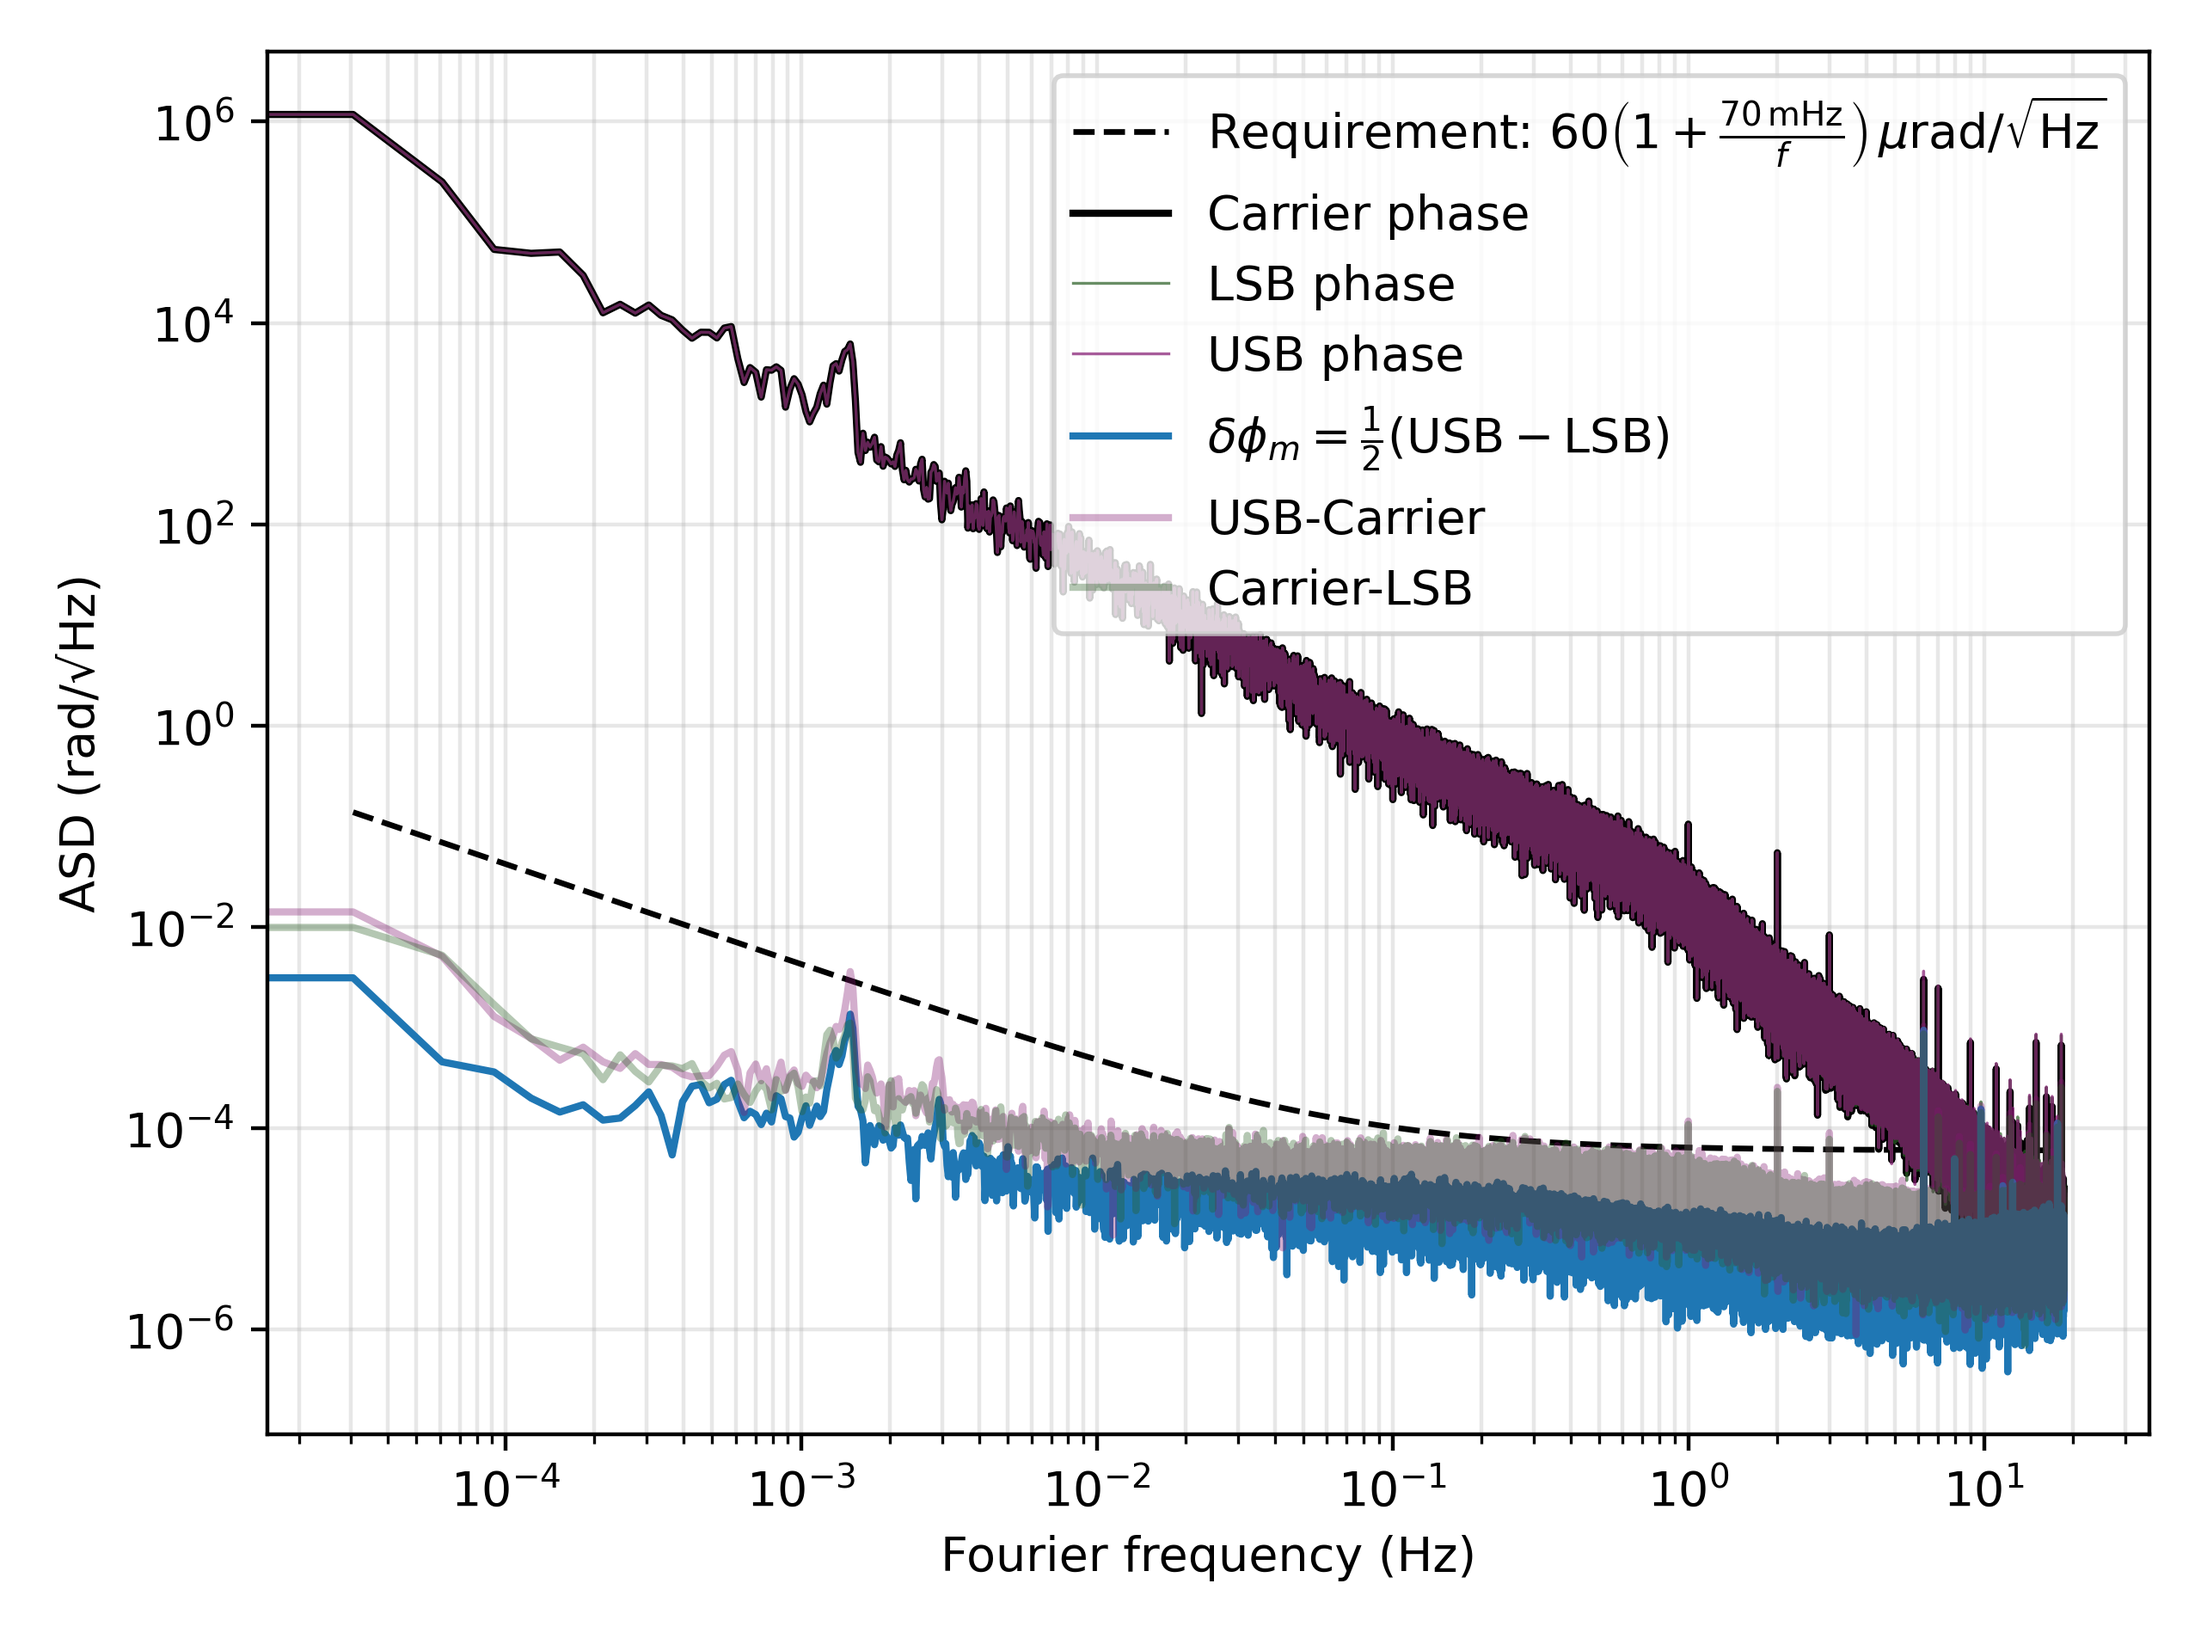
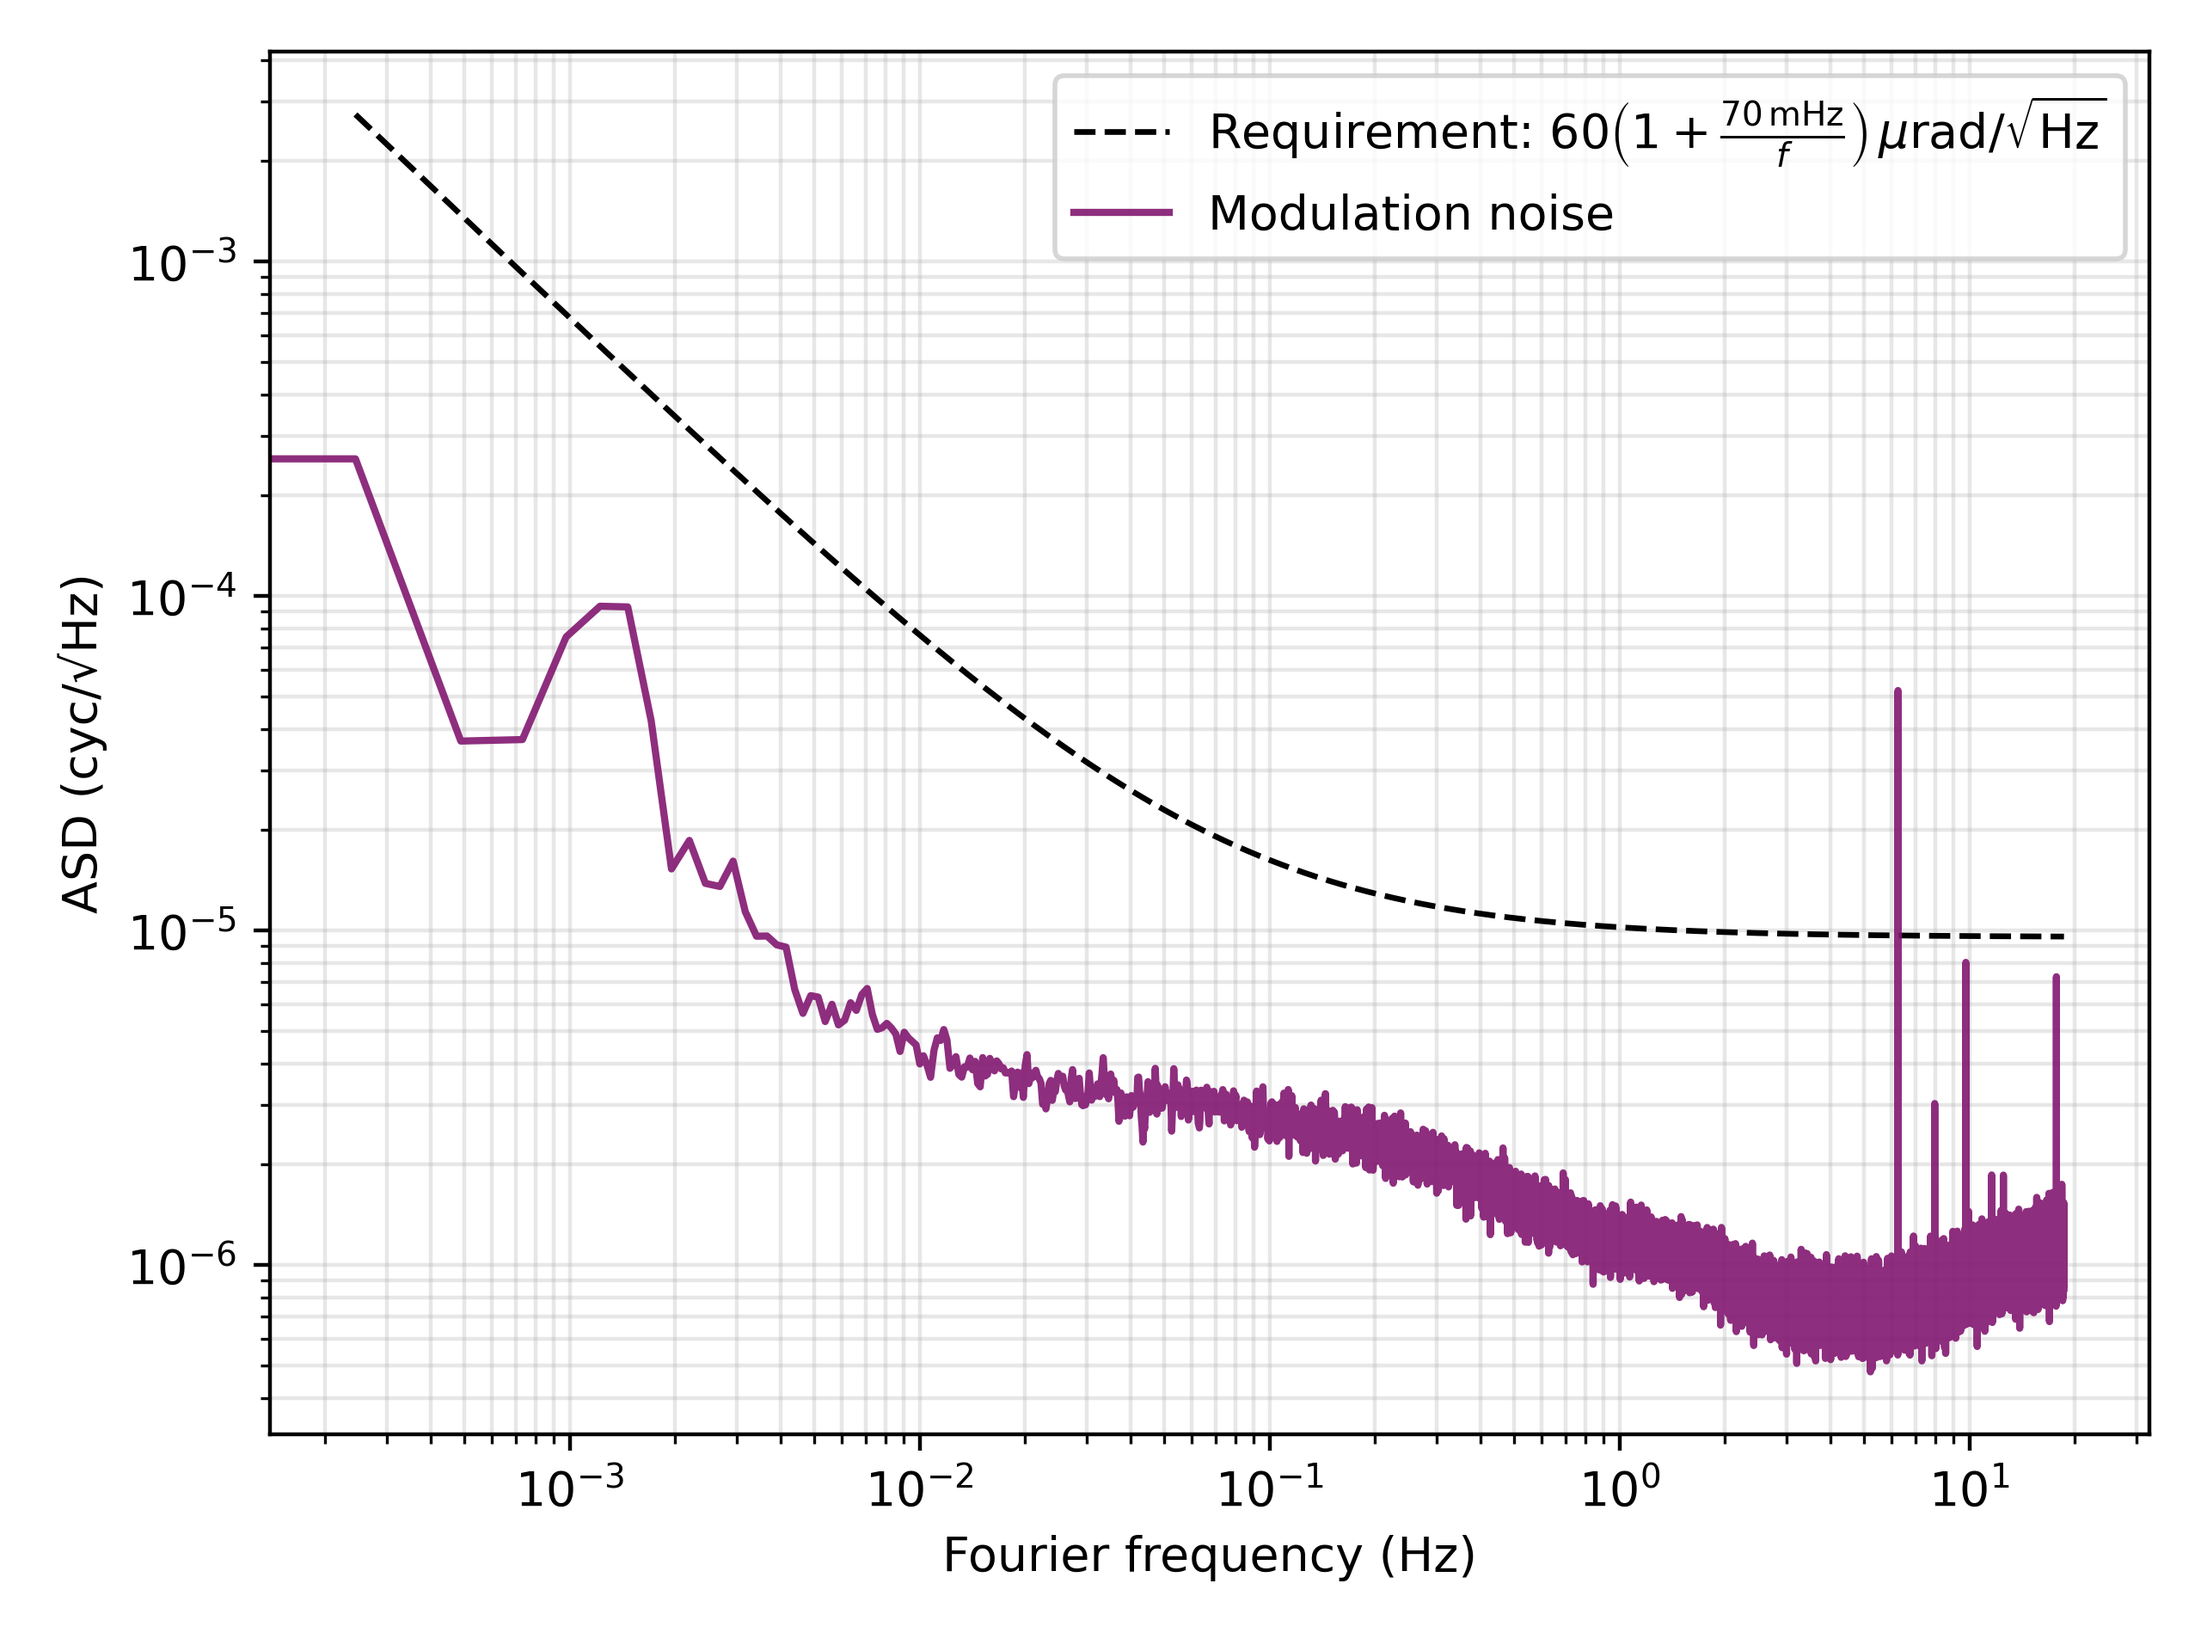
nicer mod noise

diff --git a/modulation_noise/proper_3signal copy.py b/modulation_noise/proper_3signal copy.py
@@ -1,0 +1,189 @@
+from pathlib import Path
+import numpy as np
+import matplotlib.pyplot as plt
+from scipy.signal import welch, detrend
+
+print("RUNNING:", __file__)
+
+# -----------------------
+# hardcode input
+# -----------------------
+DATA = Path(r"data\EOM_PLL_20260224_160232.npy")   # <-- change
+TXT  = DATA.with_suffix(".txt")
+
+# -----------------------
+# styling
+# -----------------------
+c_purple = (130/255, 23/255, 112/255)
+c_green  = (41/255, 95/255, 36/255)
+
+# -----------------------
+# load
+# -----------------------
+arr = np.load(DATA, allow_pickle=True)
+
+# -----------------------
+# sampling rate from header (fallback)
+# -----------------------
+fs = None
+if TXT.exists():
+    for line in TXT.read_text(encoding="utf-8", errors="ignore").splitlines():
+        if "Acquisition rate:" in line:
+            fs = float(line.split("Acquisition rate:")[1].split("Hz")[0].strip())
+            break
+if fs is None:
+    dt = np.median(np.diff(arr["Time (s)"]))
+    fs = 1.0 / dt
+
+print("fs =", fs)
+
+# -----------------------
+# pull columns (structured array!)
+# NOTE: these must match your file's field names exactly.
+# If yours are different, print(arr.dtype.names) and rename below.
+# -----------------------
+t = arr["Time (s)"]
+
+# Carrier / LSB / USB phase (cycles)
+phiC_cyc = arr["Input 1 Phase (cyc)"]        # <-- rename if needed
+phiL_cyc = arr["Input 2 Phase (cyc)"]            # <-- rename if needed
+phiU_cyc = arr["Input 3 Phase (cyc)"]            # <-- rename if needed
+
+# Carrier / LSB / USB frequency (Hz) (optional but useful)
+fC_Hz = arr["Input 1 Frequency (Hz)"]        # <-- rename if needed
+fL_Hz = arr["Input 2 Frequency (Hz)"]            # <-- rename if needed
+fU_Hz = arr["Input 3 Frequency (Hz)"]            # <-- rename if needed
+
+# -----------------------
+# optional cut start/end (copy your style; set to 0 if not needed)
+# -----------------------
+cut_start_s = 0.0
+cut_end_s   = 0.2 * 3600
+
+mask = (t >= (t[0] + cut_start_s)) & (t <= (t[-1] - cut_end_s))
+t = t[mask]
+phiC_cyc = phiC_cyc[mask]; phiL_cyc = phiL_cyc[mask]; phiU_cyc = phiU_cyc[mask]
+fC_Hz = fC_Hz[mask]; fL_Hz = fL_Hz[mask]; fU_Hz = fU_Hz[mask]
+
+# -----------------------
+# full time series (mean-subtracted frequency) like your other script
+# -----------------------
+fC_centered = fC_Hz - np.mean(fC_Hz)
+fL_centered = fL_Hz - np.mean(fL_Hz)
+fU_centered = fU_Hz - np.mean(fU_Hz)
+
+target_fs_plot = 2.0
+stride = max(1, int(round(fs / target_fs_plot)))
+
+t_plot = (t - t[0])[::stride]
+fC_plot = fC_centered[::stride]
+fL_plot = fL_centered[::stride]
+fU_plot = fU_centered[::stride]
+
+stem = DATA.with_suffix("").name
+out_ts = DATA.with_name(stem + "_freq_full_timeseries.png")
+
+plt.figure(figsize=(10, 4))
+plt.plot(t_plot/3600.0, fC_plot, label="Carrier (mean subtracted)", linewidth=1, color="k")
+plt.plot(t_plot/3600.0, fL_plot, label="LSB (mean subtracted)", linewidth=0.6, color=c_green)
+plt.plot(t_plot/3600.0, fU_plot, label="USB (mean subtracted)", linewidth=0.6, color=c_purple, alpha=0.7)
+plt.xlabel("Time (hours)")
+plt.ylabel("Frequency deviation (Hz)")
+plt.grid(True, alpha=0.3)
+plt.legend()
+plt.tight_layout()
+plt.savefig(out_ts, dpi=200)
+plt.close()
+
+print("Saved:", out_ts)
+
+# -----------------------
+# PSD helper (same style as yours)
+# -----------------------
+def psd(x, fs, seg_s=2*2048):
+    nperseg = int(seg_s * fs)
+    nperseg = max(256, min(nperseg, len(x)))
+    f, Pxx = welch(
+        x, fs=fs, window="hann",
+        nperseg=nperseg, noverlap=nperseg//2,
+        detrend=False, scaling="density"
+    )
+    return f, Pxx
+
+# -----------------------
+# detrend phases (removes constant freq offsets/drift)
+# -----------------------
+phiC_dt = detrend(phiC_cyc, type="linear")
+phiL_dt = detrend(phiL_cyc, type="linear")
+phiU_dt = detrend(phiU_cyc, type="linear")
+
+# -----------------------
+# Best modulation-phase-noise estimator:
+# φ_RF (cycles) = 0.5*(USB - LSB)
+# cancels common optical phase noise
+# -----------------------
+theta_m_cyc = 0.5 * (phiU_dt - phiL_dt)
+
+# diagnostics
+u_minus_c_cyc = (phiU_dt - phiC_dt)
+c_minus_l_cyc = (phiC_dt - phiL_dt)
+
+# -----------------------
+# frequency noise from frequency columns (detrend removes ramp)
+# -----------------------
+fC_dt_Hz = detrend(fC_Hz, type="linear")
+fL_dt_Hz = detrend(fL_Hz, type="linear")
+fU_dt_Hz = detrend(fU_Hz, type="linear")
+
+# -----------------------
+# PSDs
+# -----------------------
+fC, PC = psd(phiC_dt, fs)
+fL, PL = psd(phiL_dt, fs)
+fU, PU = psd(phiU_dt, fs)
+fM, PM = psd(theta_m_cyc, fs)
+
+fUC, PUC = psd(u_minus_c_cyc, fs)
+fCL, PCL = psd(c_minus_l_cyc, fs)
+
+ffC, PffC = psd(fC_dt_Hz, fs)
+ffL, PffL = psd(fL_dt_Hz, fs)
+ffU, PffU = psd(fU_dt_Hz, fs)
+
+# useful: SB splitting (should be ~2*f_mod if referenced that way)
+df_UL = fU_dt_Hz - fL_dt_Hz
+ffd, Pffd = psd(df_UL, fs)
+#np.savetxt("modulator_psd.csv", np.column_stack((fM, PM)), header="Frequency(Hz),PSD(Hz^2/Hz)", delimiter=",")
+# -----------------------
+# outputs
+# -----------------------
+out_psd_phase = DATA.with_name(stem + "_psd_phase.png")
+out_asd_phase = DATA.with_name(stem + "_asd_phase.png")
+out_psd_freq  = DATA.with_name(stem + "_psd_freq.png")
+out_asd_freq  = DATA.with_name(stem + "_asd_freq.png")
+
+
+
+# Phase ASD (rad/sqrt(Hz))  [cycles -> rad via *2π]
+plt.figure()
+S_req = 60e-6 * (1.0 + 0.07 / fC) /2/np.pi # rad/√Hz
+
+plt.loglog(fC, S_req,
+           linestyle="--",
+           color="k",
+           linewidth=1.2,
+           label=r"Requirement: $60\left(1+\frac{70\,\mathrm{mHz}}{f}\right)\,\mu$rad/$\sqrt{\mathrm{Hz}}$")
+#plt.loglog(fC, np.sqrt(PC), label="Carrier phase", color="k")
+#plt.loglog(fL, np.sqrt(PL), label="LSB phase", color=c_green, alpha=0.7, linewidth=0.6)
+#plt.loglog(fU, np.sqrt(PU), label="USB phase", color=c_purple, alpha=0.7, linewidth=0.6)
+plt.loglog(fM, np.sqrt(PM), label='Modulation noise', color=(130/255, 23/255, 112/255, 0.9))
+#plt.loglog(fUC, np.sqrt(PUC), label="USB-Carrier", color=c_purple, alpha=0.35)
+#plt.loglog(fCL, np.sqrt(PCL), label="Carrier-LSB", color=c_green, alpha=0.35)
+plt.xlabel("Fourier frequency (Hz)")
+plt.ylabel("ASD (cyc/√Hz)")
+plt.grid(True, which="both", alpha=0.3)
+plt.legend()
+plt.tight_layout()
+plt.savefig(out_asd_phase, dpi=400)
+plt.close()
+
